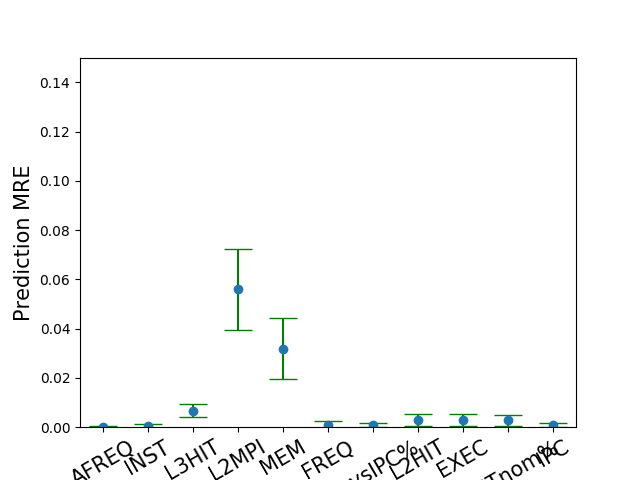
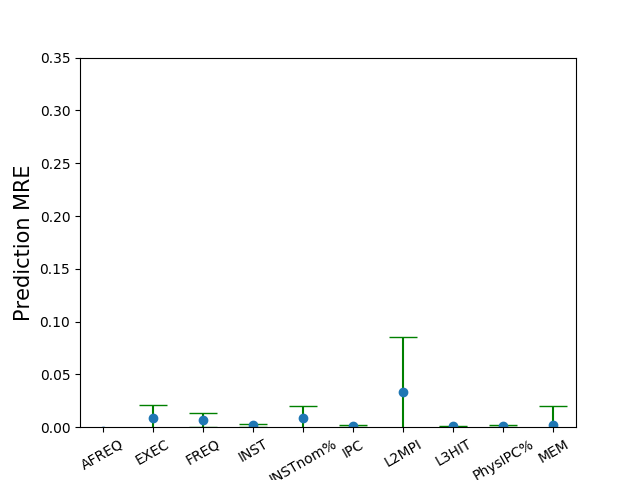
add NN to pool

diff --git a/Classes/MModel.py b/Classes/MModel.py
@@ -104,31 +104,34 @@ class MModel:
         poly = False
         for model_name in self.modelPool.CANDIDATE_MODELS:
             if model_name is not 'NN':
-                continue
-            tmp_linear_model = self.modelPool.getModel(model_name)
-            tmp_poly_model = self.modelPool.getModel(model_name)
-            tmp_linear_model.fit(self.x_train, self.y_train[feature + '-C'])
-            tmp_poly_model.fit(self.x_train_poly, self.y_train[feature + '-C'])
+                tmp_linear_model = self.modelPool.getModel(model_name)
+                tmp_poly_model = self.modelPool.getModel(model_name)
+                tmp_linear_model.fit(self.x_train, self.y_train[feature + '-C'])
+                tmp_poly_model.fit(self.x_train_poly, self.y_train[feature + '-C'])
 
-            r2_linear = tmp_linear_model.validate(self.x_test,
+                r2_linear = tmp_linear_model.validate(self.x_test,
+                                                      self.y_test[feature + '-C'])
+                r2_poly = tmp_poly_model.validate(self.x_test_poly,
                                                   self.y_test[feature + '-C'])
-            r2_poly = tmp_poly_model.validate(self.x_test_poly,
-                                              self.y_test[feature + '-C'])
-            if r2_linear > r2_poly and r2_linear > max_r2:
-                selected_model = tmp_linear_model
+                if r2_linear > r2_poly and r2_linear > max_r2:
+                    selected_model = tmp_linear_model
+                    poly = False
+                    max_r2 = r2_linear
+                elif r2_poly > r2_linear and r2_poly > max_r2:
+                    selected_model = tmp_poly_model
+                    poly = True
+                    max_r2 = r2_poly
+            else:
+                # if accuracy is enough, skip NN
+                if max_r2 > 0.8:
+                    continue
+                # NN does not need to check high order
+                nn_model = self.modelPool.getModel('NN')
+                nn_model.fit(self.x_train, self.y_train[feature+'-C'])
+                r2 = nn_model.validate(self.x_test, self.y_test[feature+'-C'])
+                selected_model = nn_model
                 poly = False
-                max_r2 = r2_linear
-            elif r2_poly > r2_linear and r2_poly > max_r2:
-                selected_model = tmp_poly_model
-                poly = True
-                max_r2 = r2_poly
-        # if accuracy is still not good, try NN
-        #if max_r2 < 0.8:
-        #    print('use NN to boost accuracy')
-        #    scores = self.nnTrain(self.x_train, self.y_train[feature + '-C'])
-        #    poly = True
-        #    name = 'NN'
-        #    model = None
+                max_r2 = r2
         return selected_model, poly
 
     def nnTrain(self, X, Y):
@@ -139,7 +142,7 @@ class MModel:
         estimators.append(('standardize', StandardScaler()))
         estimators.append(('mlp',
                            KerasRegressor(build_fn=self.initNNModel,
-                                          epochs=100,
+                                          epochs=30,
                                           batch_size=5,
                                           verbose=0)))
         pipeline = Pipeline(estimators)

diff --git a/models/RapidNN.py b/models/RapidNN.py
@@ -77,9 +77,9 @@ class RapidNN(RapidModel):
         estimators.append((RapidNN.SCALER, StandardScaler()))
         estimators.append((RapidNN.REGRESSER,
                            KerasRegressor(build_fn=self.initNNModel,
-                                          epochs=100,
-                                          batch_size=5,
-                                          verbose=0)))
+                                          epochs=30,
+                                          batch_size=10,
+                                          verbose=2)))
         pipeline = Pipeline(estimators)
         kfold = KFold(n_splits=10, random_state=seed)
         pipeline.fit(X, Y)

diff --git a/models/ModelPool.py b/models/ModelPool.py
@@ -6,7 +6,6 @@ from models.RapidNN import *
 
 
 class ModelPool:
-    #CANDIDATE_MODELS = ['linear','EN','lassoCV','Bayesian','NN']
     CANDIDATE_MODELS = ['linear', 'EN', 'lassoCV', 'Bayesian', 'NN']
 
     def getModel(self, name):
@@ -22,4 +21,4 @@ class ModelPool:
         elif name == 'Bayesian':
             return RapidBayesian()
         elif name == 'NN':
-            return RapidNN()  # todo
+            return RapidNN()

diff --git a/Utility.py b/Utility.py
@@ -52,9 +52,9 @@ def draw_ci(ci_file, output):
                                 capsize=10)
     for cap in caps:
         cap.set_markeredgewidth(1)
-    plt.xticks(range(len(names)), names, fontsize='15', rotation=30)
+    plt.xticks(range(len(names)), names, fontsize='10', rotation=30)
     plt.ylabel('Prediction MRE', fontsize='15')
-    plt.ylim(0.0, 0.15)
+    plt.ylim(0.0, 0.35)
     plt.savefig(output + '.png')
 
 

diff --git a/models/__init__.py b/models/__init__.py
@@ -1,3 +1,4 @@
 __all__ = [
-    "ModelPool","RapidModel", "RapidBayesian", "RapidEN", "RapidLasso", "RapidLinear"
+    "ModelPool", "RapidModel", "RapidNN", "RapidBayesian", "RapidEN",
+    "RapidLasso", "RapidLinear"
 ]
